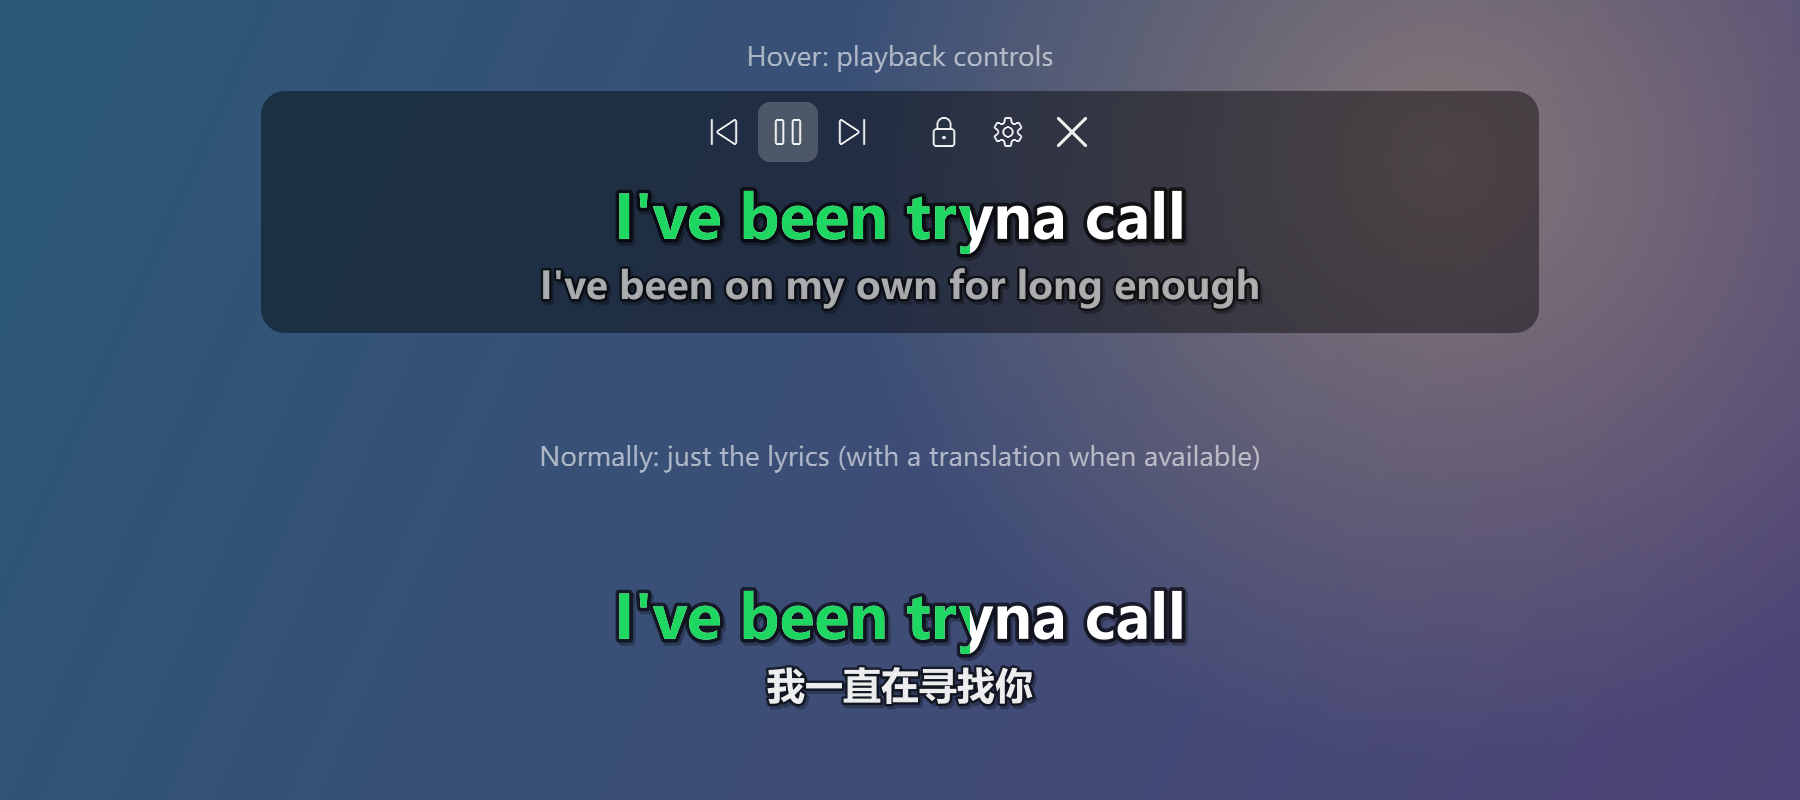
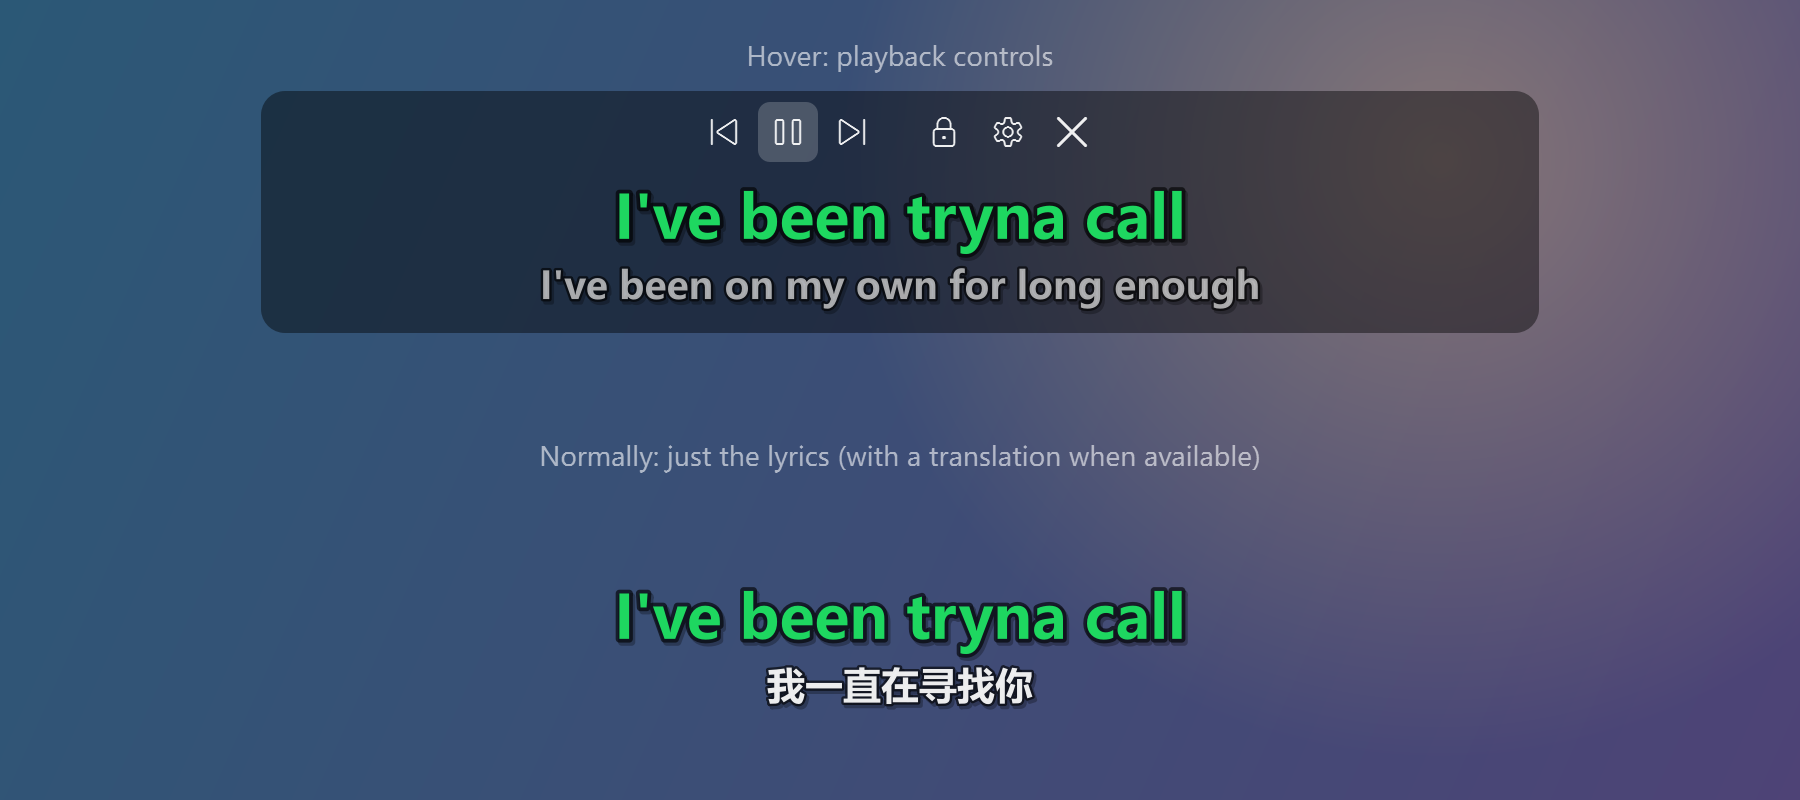
Highlight whole lines instead of an estimated per-character sweep
The sweep speed was guessed from the line length, not real word timing,
so it often ran ahead of or behind the singer and made the lyrics feel
out of sync. The current line is now shown entirely in the highlight color.

Changed region(s): [[0.5289, 0.75, 0.6844, 0.8125], [0.5289, 0.25, 0.6844, 0.3125]]

diff --git a/app.py b/app.py
@@ -5,7 +5,6 @@ import ctypes
 import json
 import logging
 import os
-import re
 import sys
 import time
 import winreg
@@ -70,13 +69,6 @@ class Settings(dict):
         tmp = self.path.with_suffix(".tmp")
         tmp.write_text(json.dumps(self, ensure_ascii=False, indent=2), "utf-8")
         tmp.replace(self.path)
-
-
-def _sing_seconds(text: str) -> float:
-    """Rough guess of how long a line takes to sing; sets the speed of the highlight sweep."""
-    cjk = len(lyr.CJK.findall(text))
-    other = len(re.sub(r"\s", "", text)) - cjk
-    return 1.0 + 0.45 * cjk + 0.07 * other
 
 
 class LyricsApp(QObject):
@@ -220,35 +212,32 @@ class LyricsApp(QObject):
         self.lyrics = lyrics
         self.status = "ok" if lyrics else "none" if ok else "error"
 
-    def view(self) -> tuple[str, float | None, str, bool] | None:
-        """What to show: (main line, highlight progress, second line, whether the second line is the next line)."""
+    def view(self) -> tuple[str, bool, str, bool] | None:
+        """What to show: (main line, whether it's the line being sung, second line,
+        whether the second line is the next line)."""
         t = self.track
         if not t:
             return None
         head = f"{t.title} - {t.artist}" if t.artist else t.title
         if self.status == "skip":
-            return head, None, "", False
+            return head, False, "", False
         if self.status == "loading":
-            return head, None, tr("searching"), True
+            return head, False, tr("searching"), True
         if self.status == "none":
-            return head, None, tr("not_found"), True
+            return head, False, tr("not_found"), True
         if self.status == "error":
-            return head, None, tr("load_failed"), True
+            return head, False, tr("load_failed"), True
 
         L = self.lyrics
         if L.instrumental:
-            return head, None, tr("instrumental"), True
-        pos = self.position()
-        i = L.index_at(pos)
+            return head, False, tr("instrumental"), True
+        i = L.index_at(self.position())
         if i < 0:  # intro
-            return head, None, L.next_text(0), True
-        start, text = L.lines[i]
-        end = L.lines[i + 1][0] if i + 1 < len(L.lines) else start + 6
-        dur = min(end - start, max(2.5, _sing_seconds(text)))
-        progress = min(1.0, max(0.0, (pos - start) / dur)) if dur > 0 else 1.0
+            return head, False, L.next_text(0), True
+        text = L.lines[i][1] or "♪"
         if self.settings["translation"] and L.trans[i]:
-            return text or "♪", progress, L.trans[i], False
-        return text or "♪", progress, L.next_text(i + 1), True
+            return text, True, L.trans[i], False
+        return text, True, L.next_text(i + 1), True
 
     # ------------------------------------------------------------ menu
 
@@ -602,10 +591,10 @@ class Overlay(QWidget):
                 self._draw_text(p, tr("waiting"), sub_font, rect1, hint)
             return
 
-        main, progress, sub, sub_is_next = view
+        main, current, sub, sub_is_next = view
         if not self.app.playing:
             p.setOpacity(0.55)
-        self._draw_text(p, main, main_font, rect1, color, progress, QColor(self.s["highlight"]))
+        self._draw_text(p, main, main_font, rect1, QColor(self.s["highlight"]) if current else color)
         if h2 and sub:
             c2 = QColor(color)
             c2.setAlpha(165 if sub_is_next else 235)
@@ -629,8 +618,7 @@ class Overlay(QWidget):
             p.setPen(QColor(255, 255, 255, 235))
             p.drawText(r, Qt.AlignmentFlag.AlignCenter, glyph)
 
-    def _draw_text(self, p: QPainter, text: str, font: QFont, rect: QRectF, color: QColor,
-                   progress: float | None = None, highlight: QColor | None = None):
+    def _draw_text(self, p: QPainter, text: str, font: QFont, rect: QRectF, color: QColor):
         fm = QFontMetricsF(font)
         width = fm.horizontalAdvance(text)
         if width > rect.width():  # too long: shrink the font to fit
@@ -649,11 +637,6 @@ class Overlay(QWidget):
         p.strokePath(path, QPen(QColor(0, 0, 0, 160), outline, Qt.PenStyle.SolidLine,
                                 Qt.PenCapStyle.RoundCap, Qt.PenJoinStyle.RoundJoin))
         p.fillPath(path, color)
-        if progress:
-            p.save()
-            p.setClipRect(QRectF(x - 2, rect.y(), (width + 4) * progress, rect.height()))
-            p.fillPath(path, highlight)
-            p.restore()
 
     # ------------------------------------------------------------ mouse
 
